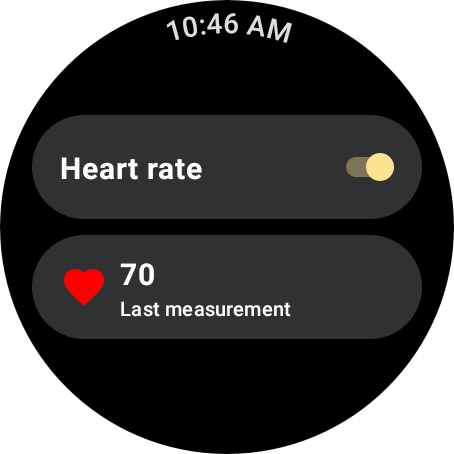
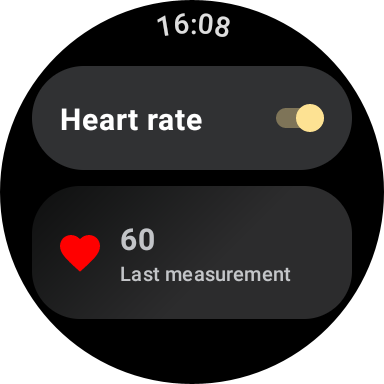
Fixes from review

Changed region(s): [[0.0625, 0.1562, 0.9375, 0.8438], [0.375, 0.0312, 0.6562, 0.0938]]

diff --git a/health-services/PassiveGoalsCompose/app/src/main/java/com/example/passivegoalscompose/presentation/AchievementCard.kt b/health-services/PassiveGoalsCompose/app/src/main/java/com/example/passivegoalscompose/presentation/AchievementCard.kt
@@ -1,0 +1,106 @@
+/*
+ * Copyright 2022 The Android Open Source Project
+ *
+ * Licensed under the Apache License, Version 2.0 (the "License");
+ * you may not use this file except in compliance with the License.
+ * You may obtain a copy of the License at
+ *
+ *     https://www.apache.org/licenses/LICENSE-2.0
+ *
+ * Unless required by applicable law or agreed to in writing, software
+ * distributed under the License is distributed on an "AS IS" BASIS,
+ * WITHOUT WARRANTIES OR CONDITIONS OF ANY KIND, either express or implied.
+ * See the License for the specific language governing permissions and
+ * limitations under the License.
+ */
+package com.example.passivegoalscompose.presentation
+
+import androidx.compose.foundation.layout.Box
+import androidx.compose.foundation.layout.Column
+import androidx.compose.foundation.layout.Row
+import androidx.compose.foundation.layout.fillMaxSize
+import androidx.compose.foundation.layout.padding
+import androidx.compose.material.icons.Icons
+import androidx.compose.material.icons.filled.Celebration
+import androidx.compose.runtime.Composable
+import androidx.compose.ui.Alignment
+import androidx.compose.ui.Modifier
+import androidx.compose.ui.graphics.Color
+import androidx.compose.ui.graphics.vector.ImageVector
+import androidx.compose.ui.res.stringResource
+import androidx.compose.ui.tooling.preview.Devices
+import androidx.compose.ui.tooling.preview.Preview
+import androidx.compose.ui.unit.dp
+import androidx.wear.compose.material.Card
+import androidx.wear.compose.material.Icon
+import androidx.wear.compose.material.MaterialTheme
+import androidx.wear.compose.material.Text
+import com.example.passivegoalscompose.R
+import com.example.passivegoalscompose.theme.PassiveGoalsTheme
+
+/**
+ * Displays an achievement and whether it has been achieved.
+ */
+@Composable
+fun AchievementCard(
+    isAchieved: Boolean,
+    achievedText: String,
+    notAchievedText: String,
+    achievementDescription: String,
+    imageVector: ImageVector,
+    imageDescription: String,
+    modifier: Modifier = Modifier
+) {
+    Card(
+        onClick = {},
+        enabled = false,
+        modifier = modifier
+    ) {
+        Row(
+            verticalAlignment = Alignment.CenterVertically,
+            modifier = modifier
+        ) {
+            Icon(
+                imageVector = imageVector,
+                contentDescription = imageDescription,
+                tint = if (isAchieved) Color.Green else Color.LightGray,
+                modifier = Modifier.padding(end = 8.dp)
+            )
+            Column {
+                val stepsText = if (isAchieved) {
+                    achievedText
+                } else {
+                    notAchievedText
+                }
+                Text(stepsText)
+                Text(
+                    text = achievementDescription,
+                    style = MaterialTheme.typography.caption3
+                )
+            }
+        }
+    }
+}
+
+@Preview(
+    device = Devices.WEAR_OS_SMALL_ROUND,
+    showSystemUi = true
+)
+@Composable
+fun StepsChipPreview() {
+    PassiveGoalsTheme {
+        Box(
+            contentAlignment = Alignment.Center,
+            modifier = Modifier.fillMaxSize(),
+        ) {
+            AchievementCard(
+                isAchieved = true,
+                achievedText = stringResource(id = R.string.steps_goal_achieved),
+                notAchievedText = stringResource(id = R.string.steps_goal_not_yet_achieved),
+                achievementDescription = stringResource(id = R.string.steps_goals_description),
+                imageVector = Icons.Default.Celebration,
+                imageDescription = stringResource(id = R.string.steps_description)
+            )
+        }
+    }
+}

diff --git a/health-services/PassiveGoalsCompose/app/src/main/java/com/example/passivegoalscompose/presentation/PassiveGoalsScreen.kt b/health-services/PassiveGoalsCompose/app/src/main/java/com/example/passivegoalscompose/presentation/PassiveGoalsScreen.kt
@@ -17,17 +17,27 @@ package com.example.passivegoalscompose.presentation
 
 import androidx.compose.foundation.layout.fillMaxSize
 import androidx.compose.foundation.layout.fillMaxWidth
+import androidx.compose.material.icons.Icons
+import androidx.compose.material.icons.filled.Celebration
+import androidx.compose.material.icons.filled.Stairs
 import androidx.compose.runtime.Composable
+import androidx.compose.runtime.remember
 import androidx.compose.ui.Alignment
 import androidx.compose.ui.Modifier
+import androidx.compose.ui.res.stringResource
 import androidx.compose.ui.tooling.preview.Devices
 import androidx.compose.ui.tooling.preview.Preview
 import androidx.wear.compose.material.ScalingLazyColumn
+import com.example.passivegoalscompose.R
 import com.example.passivegoalscompose.theme.PassiveGoalsTheme
 import com.google.accompanist.permissions.ExperimentalPermissionsApi
 import com.google.accompanist.permissions.PermissionState
 import com.google.accompanist.permissions.PermissionStatus
 import java.time.Instant
+import java.time.ZoneId
+import java.time.ZonedDateTime
+import java.time.format.DateTimeFormatter
+import java.time.format.FormatStyle
 
 @OptIn(ExperimentalPermissionsApi::class)
 @Composable
@@ -51,15 +61,31 @@ fun PassiveGoalsScreen(
             )
         }
         item {
-            StepsChip(
+            AchievementCard(
                 modifier = Modifier.fillMaxWidth(),
-                stepsGoalAchieved = stepsGoalAchieved
+                isAchieved = stepsGoalAchieved,
+                achievedText = stringResource(id = R.string.steps_goal_achieved),
+                notAchievedText = stringResource(id = R.string.steps_goal_not_yet_achieved),
+                achievementDescription = stringResource(id = R.string.steps_goals_description),
+                imageVector = Icons.Default.Celebration,
+                imageDescription = stringResource(id = R.string.steps_description)
             )
         }
         item {
-            FloorsChip(
+            val floorsText = remember(latestFloorsTime) {
+                val formatter = DateTimeFormatter.ofLocalizedTime(FormatStyle.SHORT)
+                val zonedDateTime =
+                    ZonedDateTime.ofInstant(latestFloorsTime, ZoneId.systemDefault())
+                formatter.format(zonedDateTime)
+            }
+            AchievementCard(
                 modifier = Modifier.fillMaxWidth(),
-                floorGoalsLastAchieved = latestFloorsTime
+                isAchieved = latestFloorsTime != Instant.EPOCH,
+                achievedText = floorsText,
+                notAchievedText = stringResource(id = R.string.waiting),
+                achievementDescription = stringResource(id = R.string.floor_goals_description),
+                imageVector = Icons.Default.Stairs,
+                imageDescription = stringResource(id = R.string.floor_description)
             )
         }
     }

diff --git a/health-services/PassiveDataCompose/app/src/main/java/com/example/passivedatacompose/presentation/HeartRateCard.kt b/health-services/PassiveDataCompose/app/src/main/java/com/example/passivedatacompose/presentation/HeartRateCard.kt
@@ -15,15 +15,20 @@
  */
 package com.example.passivedatacompose.presentation
 
+import androidx.compose.foundation.layout.Column
+import androidx.compose.foundation.layout.Row
+import androidx.compose.foundation.layout.padding
 import androidx.compose.material.icons.Icons
 import androidx.compose.material.icons.filled.Favorite
 import androidx.compose.runtime.Composable
+import androidx.compose.ui.Alignment
 import androidx.compose.ui.Modifier
 import androidx.compose.ui.graphics.Color
 import androidx.compose.ui.res.stringResource
 import androidx.compose.ui.tooling.preview.Devices
 import androidx.compose.ui.tooling.preview.Preview
-import androidx.wear.compose.material.Chip
+import androidx.compose.ui.unit.dp
+import androidx.wear.compose.material.Card
 import androidx.wear.compose.material.Icon
 import androidx.wear.compose.material.MaterialTheme
 import androidx.wear.compose.material.Text
@@ -35,31 +40,35 @@ import kotlin.math.roundToInt
  * Displays a heart rate value with icon and label.
  */
 @Composable
-fun HeartRateChip(
+fun HeartRateCard(
     heartRate: Double,
     modifier: Modifier = Modifier
 ) {
-    Chip(
-        modifier = modifier,
+    Card(
         onClick = {},
-        label = {
-            val hrText = if (heartRate.isNaN()) "--" else heartRate.roundToInt().toString()
-            Text(hrText)
-        },
-        secondaryLabel = {
-            Text(
-                text = stringResource(id = R.string.last_measured),
-                style = MaterialTheme.typography.caption3
-            )
-        },
-        icon = {
+        enabled = false,
+        modifier = modifier
+    ) {
+        Row(
+            verticalAlignment = Alignment.CenterVertically,
+            modifier = modifier
+        ) {
             Icon(
                 imageVector = Icons.Default.Favorite,
                 contentDescription = stringResource(R.string.heart_description),
-                tint = Color.Red
+                tint = Color.Red,
+                modifier = Modifier.padding(end = 8.dp)
             )
+            Column {
+                val hrText = if (heartRate.isNaN()) "--" else heartRate.roundToInt().toString()
+                Text(hrText)
+                Text(
+                    text = stringResource(id = R.string.last_measured),
+                    style = MaterialTheme.typography.caption3
+                )
+            }
         }
-    )
+    }
 }
 
 @Preview(
@@ -67,8 +76,8 @@ fun HeartRateChip(
     showSystemUi = true
 )
 @Composable
-fun HeartRateChipPreview() {
+fun HeartRateCardPreview() {
     PassiveDataTheme {
-        HeartRateChip(122.2)
+        HeartRateCard(122.2)
     }
 }

diff --git a/health-services/PassiveDataCompose/app/src/main/java/com/example/passivedatacompose/presentation/PassiveDataViewModel.kt b/health-services/PassiveDataCompose/app/src/main/java/com/example/passivedatacompose/presentation/PassiveDataViewModel.kt
@@ -31,6 +31,9 @@ class PassiveDataViewModel(
     private val healthServicesRepository: HealthServicesRepository,
     private val passiveDataRepository: PassiveDataRepository
 ) : ViewModel() {
+    // Provides a hot flow of the latest HR value read from Data Store whilst there is an active
+    // UI subscription. HR values are written to the Data Store in the [PassiveDataService] each
+    // time an update is provided by Health Services.
     val hrValue = passiveDataRepository.latestHeartRate
         .stateIn(viewModelScope, SharingStarted.WhileSubscribed(), Double.NaN)
 

diff --git a/health-services/PassiveGoalsCompose/app/src/main/java/com/example/passivegoalscompose/data/HealthServicesRepository.kt b/health-services/PassiveGoalsCompose/app/src/main/java/com/example/passivegoalscompose/data/HealthServicesRepository.kt
@@ -24,7 +24,6 @@ import com.example.passivegoalscompose.TAG
 import com.example.passivegoalscompose.service.PassiveGoalsService
 import dailyStepsGoal
 import floorsGoal
-import kotlinx.coroutines.flow.flow
 
 /**
  * Entry point for [HealthServicesClient] APIs. This also provides suspend functions around

diff --git a/health-services/PassiveDataCompose/app/src/main/java/com/example/passivedatacompose/presentation/PassiveDataScreen.kt b/health-services/PassiveDataCompose/app/src/main/java/com/example/passivedatacompose/presentation/PassiveDataScreen.kt
@@ -55,7 +55,7 @@ fun PassiveDataScreen(
             onCheckedChange = onEnableClick,
             permissionState = permissionState
         )
-        HeartRateChip(
+        HeartRateCard(
             modifier = Modifier
                 .fillMaxWidth()
                 .padding(vertical = 4.dp),

diff --git a/health-services/MeasureDataCompose/app/src/main/java/com/example/measuredatacompose/presentation/HrLabel.kt b/health-services/MeasureDataCompose/app/src/main/java/com/example/measuredatacompose/presentation/HrLabel.kt
@@ -53,7 +53,7 @@ fun HrLabel(
     val text = if (availability == DataTypeAvailability.AVAILABLE) {
         hr.toInt().toString()
     } else {
-        "--"
+        stringResource(id = R.string.no_hr_reading)
     }
     Row(
         modifier = Modifier.fillMaxWidth(),

diff --git a/health-services/MeasureDataCompose/README.md b/health-services/MeasureDataCompose/README.md
@@ -19,7 +19,7 @@ On devices where heart rate data is not available, you will see a screen like th
 
 ### Try it with synthetic data
 
-With the sample running, you can turn on the sythetic data provider by running the below command
+With the sample running, you can turn on the synthetic data provider by running the below command
 from a shell. This will mimic the user performing an activity and generating heart rate data. Check
 the app UI or logcat messages to see these data updates.
 

diff --git a/health-services/PassiveGoalsCompose/README.md b/health-services/PassiveGoalsCompose/README.md
@@ -38,7 +38,7 @@ com.google.android.wearable.healthservices
 
 To set the "user" walking:
 ```shell
-# running
+# walking
 adb shell am broadcast \
 -a "whs.synthetic.user.START_WALKING" \
 com.google.android.wearable.healthservices
